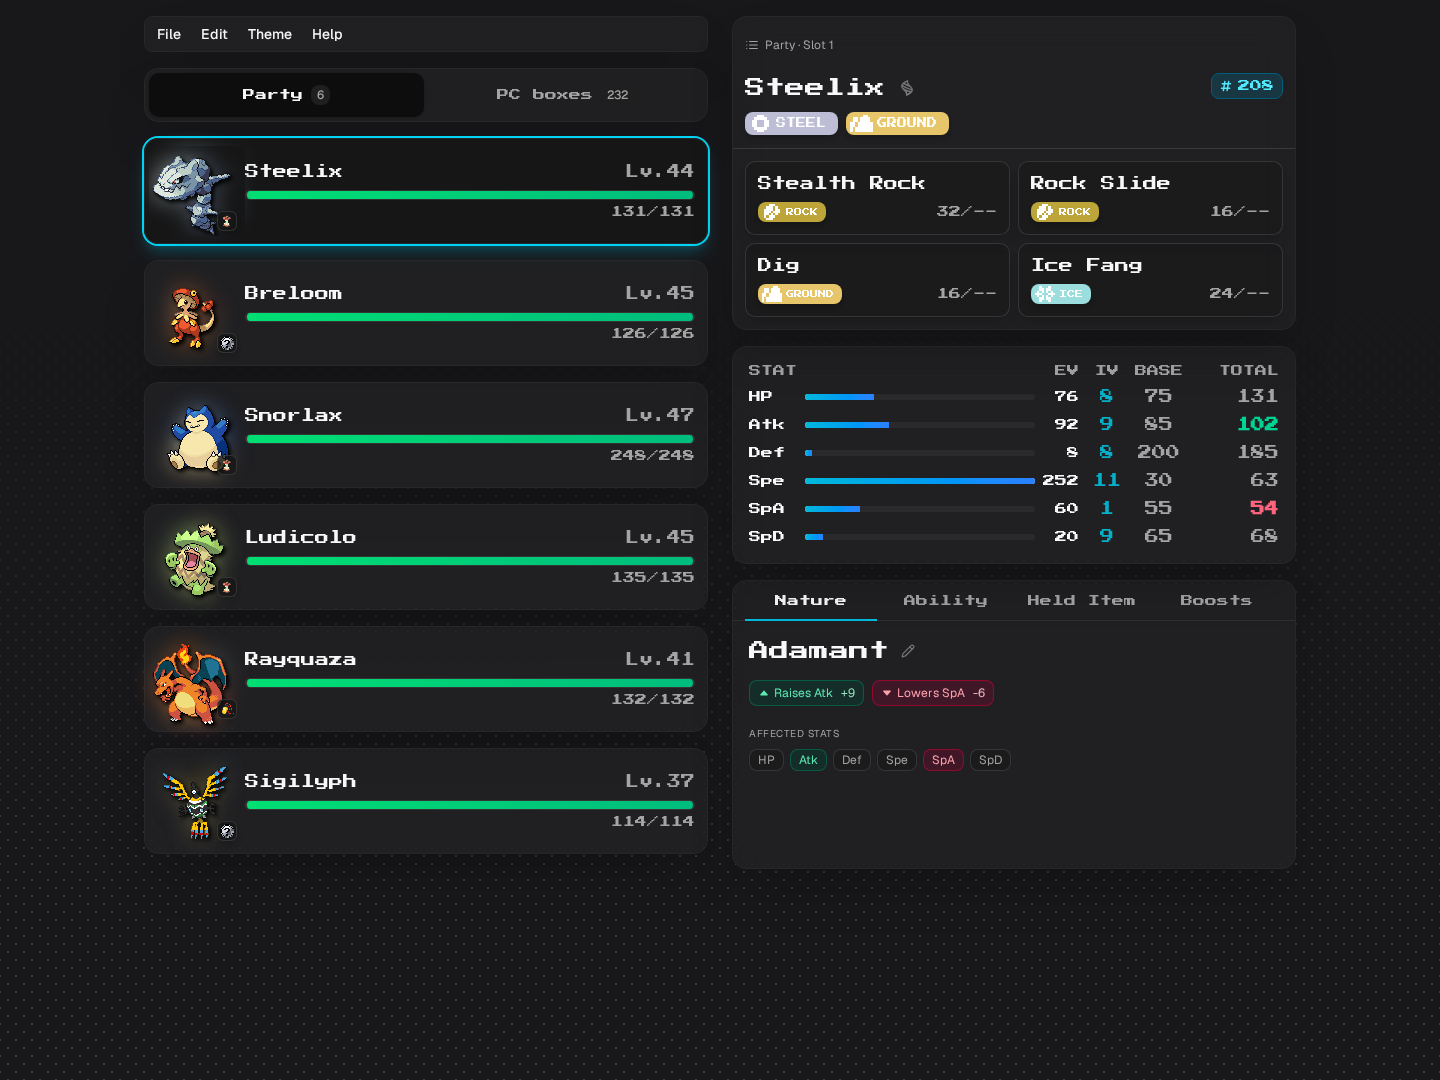
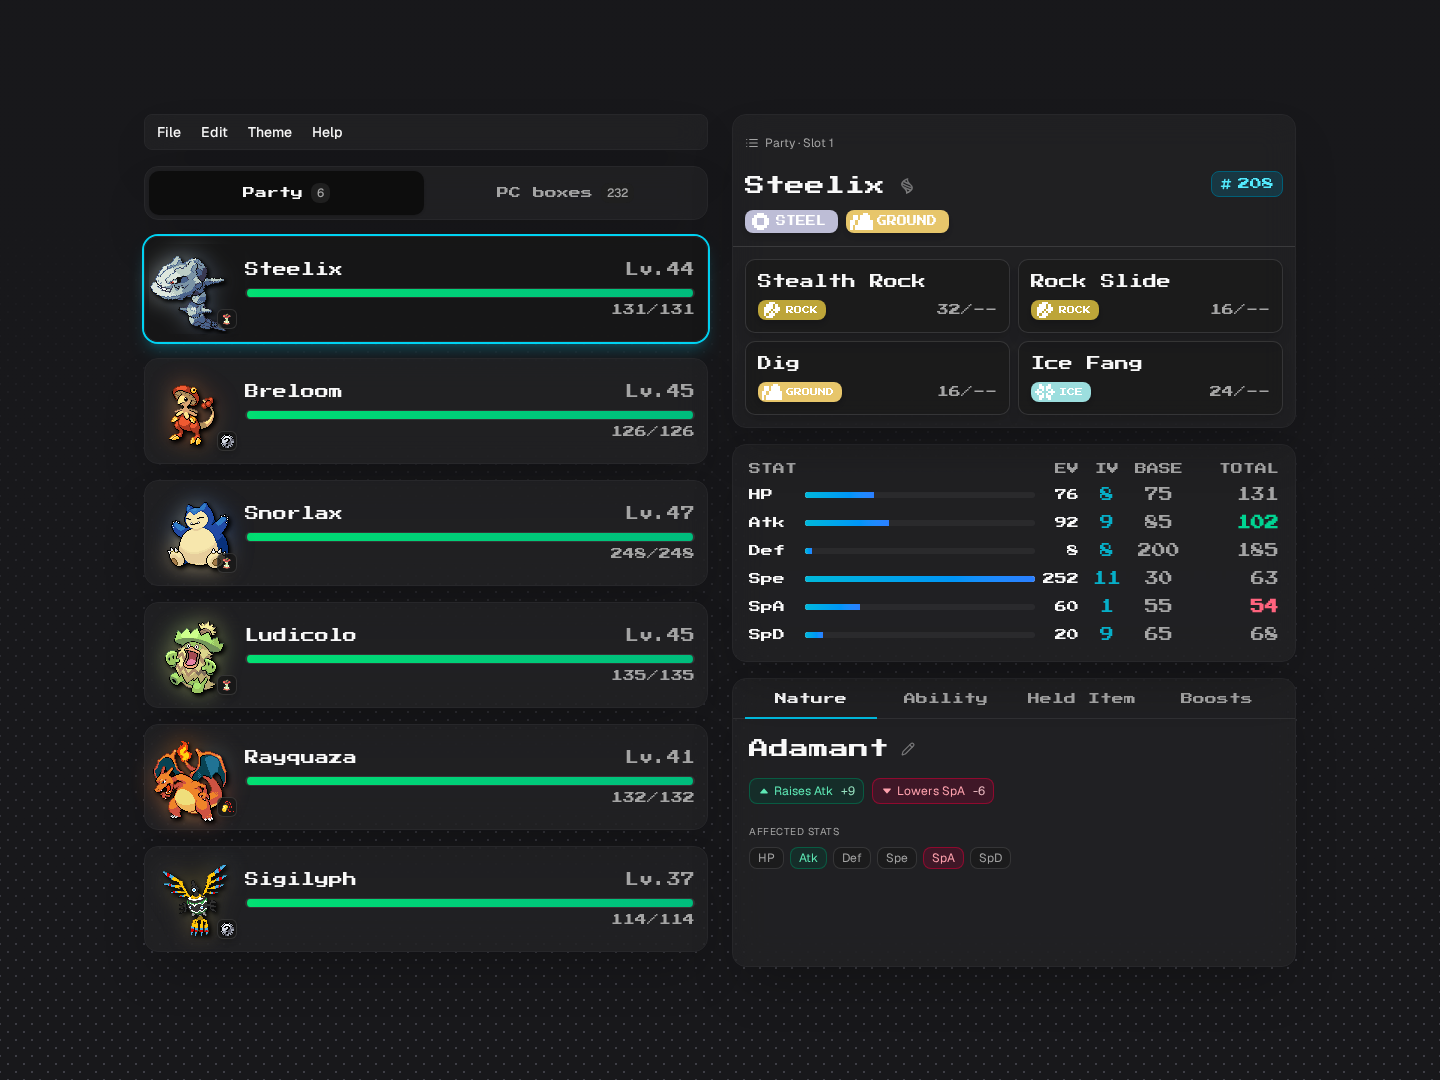
Restore vertical centering without Party/PC layout shifts

diff --git a/src/App.tsx b/src/App.tsx
@@ -87,7 +87,7 @@ export const App: React.FC = () => {
         </Suspense>
       )}
       <Toaster richColors position="bottom-center" />
-      <div className={`min-h-screen flex justify-center p-3 sm:p-4 font-pixel text-foreground ${transferOpen || hasSaveData ? 'items-start' : 'items-center'} ${transferOpen ? 'py-6 sm:py-10' : ''}`}>
+      <div className={`min-h-screen flex justify-center p-3 sm:p-4 font-pixel text-foreground ${transferOpen ? 'items-start py-6 sm:py-10' : 'items-center'}`}>
         {!transferOpen && (
           <SaveFileDropzone
             onFileLoad={parse}

diff --git a/docs/storage-layout-validation.md b/docs/storage-layout-validation.md
@@ -6,6 +6,14 @@ Both storage panels contribute their natural size to one CSS grid area. The inac
 
 The editor keeps its three-card structure for empty boxes. Party and PC use the same location row in the header; populated, loading and empty move cards share the same responsive layout. Long nicknames stay on one line, and multi-form Mega controls fit within the existing header row.
 
+## Vertical centering
+
+The normal editor retains its original vertical centering whenever it fits the viewport. A follow-up restores that alignment after the initial layout fix also anchored the editor to the top. The shared storage sizing and stable editor rows keep Party/PC switching stationary while centered.
+
+The correction was checked with both real saves at 1440×1080, 1440×720, 393×852 and 320×568. All eight cases passed, and all 22 animation-frame traces recorded zero coordinate, size or scroll changes during switching. At 1440×1080, both views have exactly 113.5px above and below. Shorter screens retain 16px desktop / 12px mobile document padding, and all content remains reachable through normal scrolling.
+
+Production build, TypeScript, lint and formatting passed. The [centering verification record](validation/storage-centering.json) contains the tested App source hash, margins and transition results. The desktop screenshots below show the restored centered layout; the broader measurements below document the preceding stability work.
+
 ## Measured result
 
 Real Emerald and Quetzal saves were checked at six viewport sizes each:
